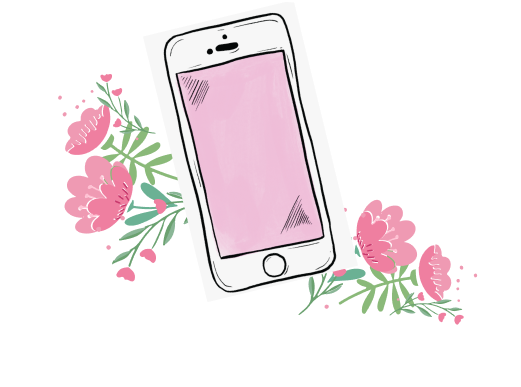
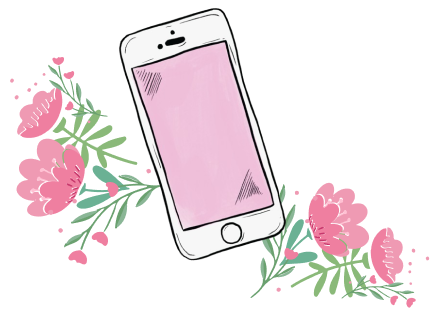
Contact section responsive

diff --git a/src/components/Contact.vue b/src/components/Contact.vue
@@ -1,26 +1,46 @@
 <template>
-  <div class="flex flex-col items-center py-[52px] relative mt-[159px]">
+  <div class="flex flex-col items-center relative py-12 sm:py-16 lg:py-[159px]">
     <img
       src="~/assets/imgs/contact1.png"
       alt=""
-      class="absolute right-[110px] -top-[57px]"
+      class="z-0 absolute w-[136px] sm:w-[250px] xl:w-[290px] 2xl:w-auto right-4 sm:right-10 2xl:right-[80px] 3xl:right-[110px] top-0 sm:top-2 lg:top-[30px]"
     />
     <img
       src="~/assets/imgs/contact2.png"
       alt=""
-      class="absolute left-4 bottom-[57px]"
+      class="absolute left-0 xl:left-4 bottom-[57px] w-[400px] xl:w-auto hidden lg:block"
     />
-    <div class="flex items-stretch gap-[72px]">
-      <div class="flex flex-col">
-        <span class="font-roboto-serif font-medium text-[36px] text-brown-700">
+
+    <div
+      class="flex items-stretch gap-8 lg:gap-12 xl:gap-[72px] flex-col-reverse lg:flex-row w-full px-6 sm:px-8 md:px-16 justify-center relative z-1"
+    >
+      <div class="flex flex-col relative gap-6">
+        <span
+          class="font-roboto-serif font-medium text-[28px] sm:text-[32px] md:text-[36px] text-brown-700"
+        >
           {{ `Talk via Whatsapp :)` }}
         </span>
+        <div
+          class="flex w-full justify-between gap-2 sm:flex-row flex-col items-center sm:items-start"
+        >
+          <img
+            src="~/assets/imgs/contact2.png"
+            alt=""
+            class="w-[300px] md:w-[360px] lg:hidden"
+          />
+          <div class="flex items-center gap-3">
+            <img src="~/assets/imgs/whatsapp-icon.svg" alt="" class="w-6" />
+            <span class="font-inter font-medium text-[24px]"
+              >+55 813-369-5388</span
+            >
+          </div>
+        </div>
       </div>
-      <div class="w-[1px] h-full bg-brown-700"></div>
-      <div class="flex flex-col gap-[38px] min-w-[512px]">
-        <div class="flex flex-col gap-3">
+      <div class="w-[1px] bg-brown-700"></div>
+      <div class="flex flex-col gap-[38px] w-full lg:max-w-[512px]">
+        <div class="flex flex-col gap-0 sm:gap-3">
           <span
-            class="font-roboto-serif font-medium text-[36px] text-brown-700"
+            class="font-roboto-serif font-medium text-[28px] sm:text-[32px] md:text-[36px] text-brown-700"
           >
             Send Us a Message
           </span>
@@ -30,7 +50,7 @@
             ...
           </span>
         </div>
-        <div class="flex flex-col gap-[52px]">
+        <div class="flex flex-col gap-10 sm:gap-[52px]">
           <div class="flex flex-col gap-6">
             <input
               type="text"
@@ -44,8 +64,10 @@
               class="font-inter placeholder:font-light placeholder:italic placeholder:text-pink-600 text-brown-700 border border-pink-600 px-4 py-3 rounded-md bg-transparent"
               placeholder="E-mail"
             />
-            <div class="flex flex-col gap-3 px-4 pt-[9px] pb-8">
-              <span class="font-inter text-[24px] text-brown-700">
+            <div class="flex flex-col gap-3 sm:px-4 pt-[9px] pb-8">
+              <span
+                class="font-inter text-[20px] sm:text-[24px] text-brown-700"
+              >
                 Interested in a specific Pack?
               </span>
               <div class="flex gap-9 items-start">
@@ -69,7 +91,7 @@
             ></textarea>
           </div>
           <button
-            class="text-white bg-pink-500 rounded-xl px-6 py-3 font-inter font-bold text-[24px] textShadow self-end tracking-[0.02]"
+            class="text-white bg-pink-500 rounded-xl px-5 xl:px-6 py-2.5 xl:py-3 font-inter font-bold sm:text-[18px] lg:text-[20px] 2xl:text-[24px] textShadow self-end tracking-[0.02]"
           >
             Send
           </button>

diff --git a/src/components/CheckboxInput.vue b/src/components/CheckboxInput.vue
@@ -1,5 +1,5 @@
 <template>
-  <button class="flex items-center gap-3" @click="handleChange()">
+  <button class="flex items-center gap-2 sm:gap-3" @click="handleChange()">
     <div
       class="w-[24px] h-[24px] border border-pink-600 rounded-md flex items-center justify-center"
     >
@@ -9,13 +9,14 @@
       ></div>
     </div>
     <span
-      class="font-medium font-inter"
+      class="font-medium font-inter text-sm sm:text-base"
       :class="{
         'text-brown-700': !state.checked,
         'text-pink-600': state.checked,
       }"
-      >{{ label }}</span
     >
+      {{ label }}
+    </span>
   </button>
 </template>
 

diff --git a/tailwind.config.js b/tailwind.config.js
@@ -23,6 +23,9 @@ export default {
         "roboto-serif": ["Roboto Serif", "sans-serif"],
         inter: ["Inter", "sans-serif"],
       },
+      screens: {
+        "3xl": "1920px",
+      },
     },
   },
   plugins: [],
